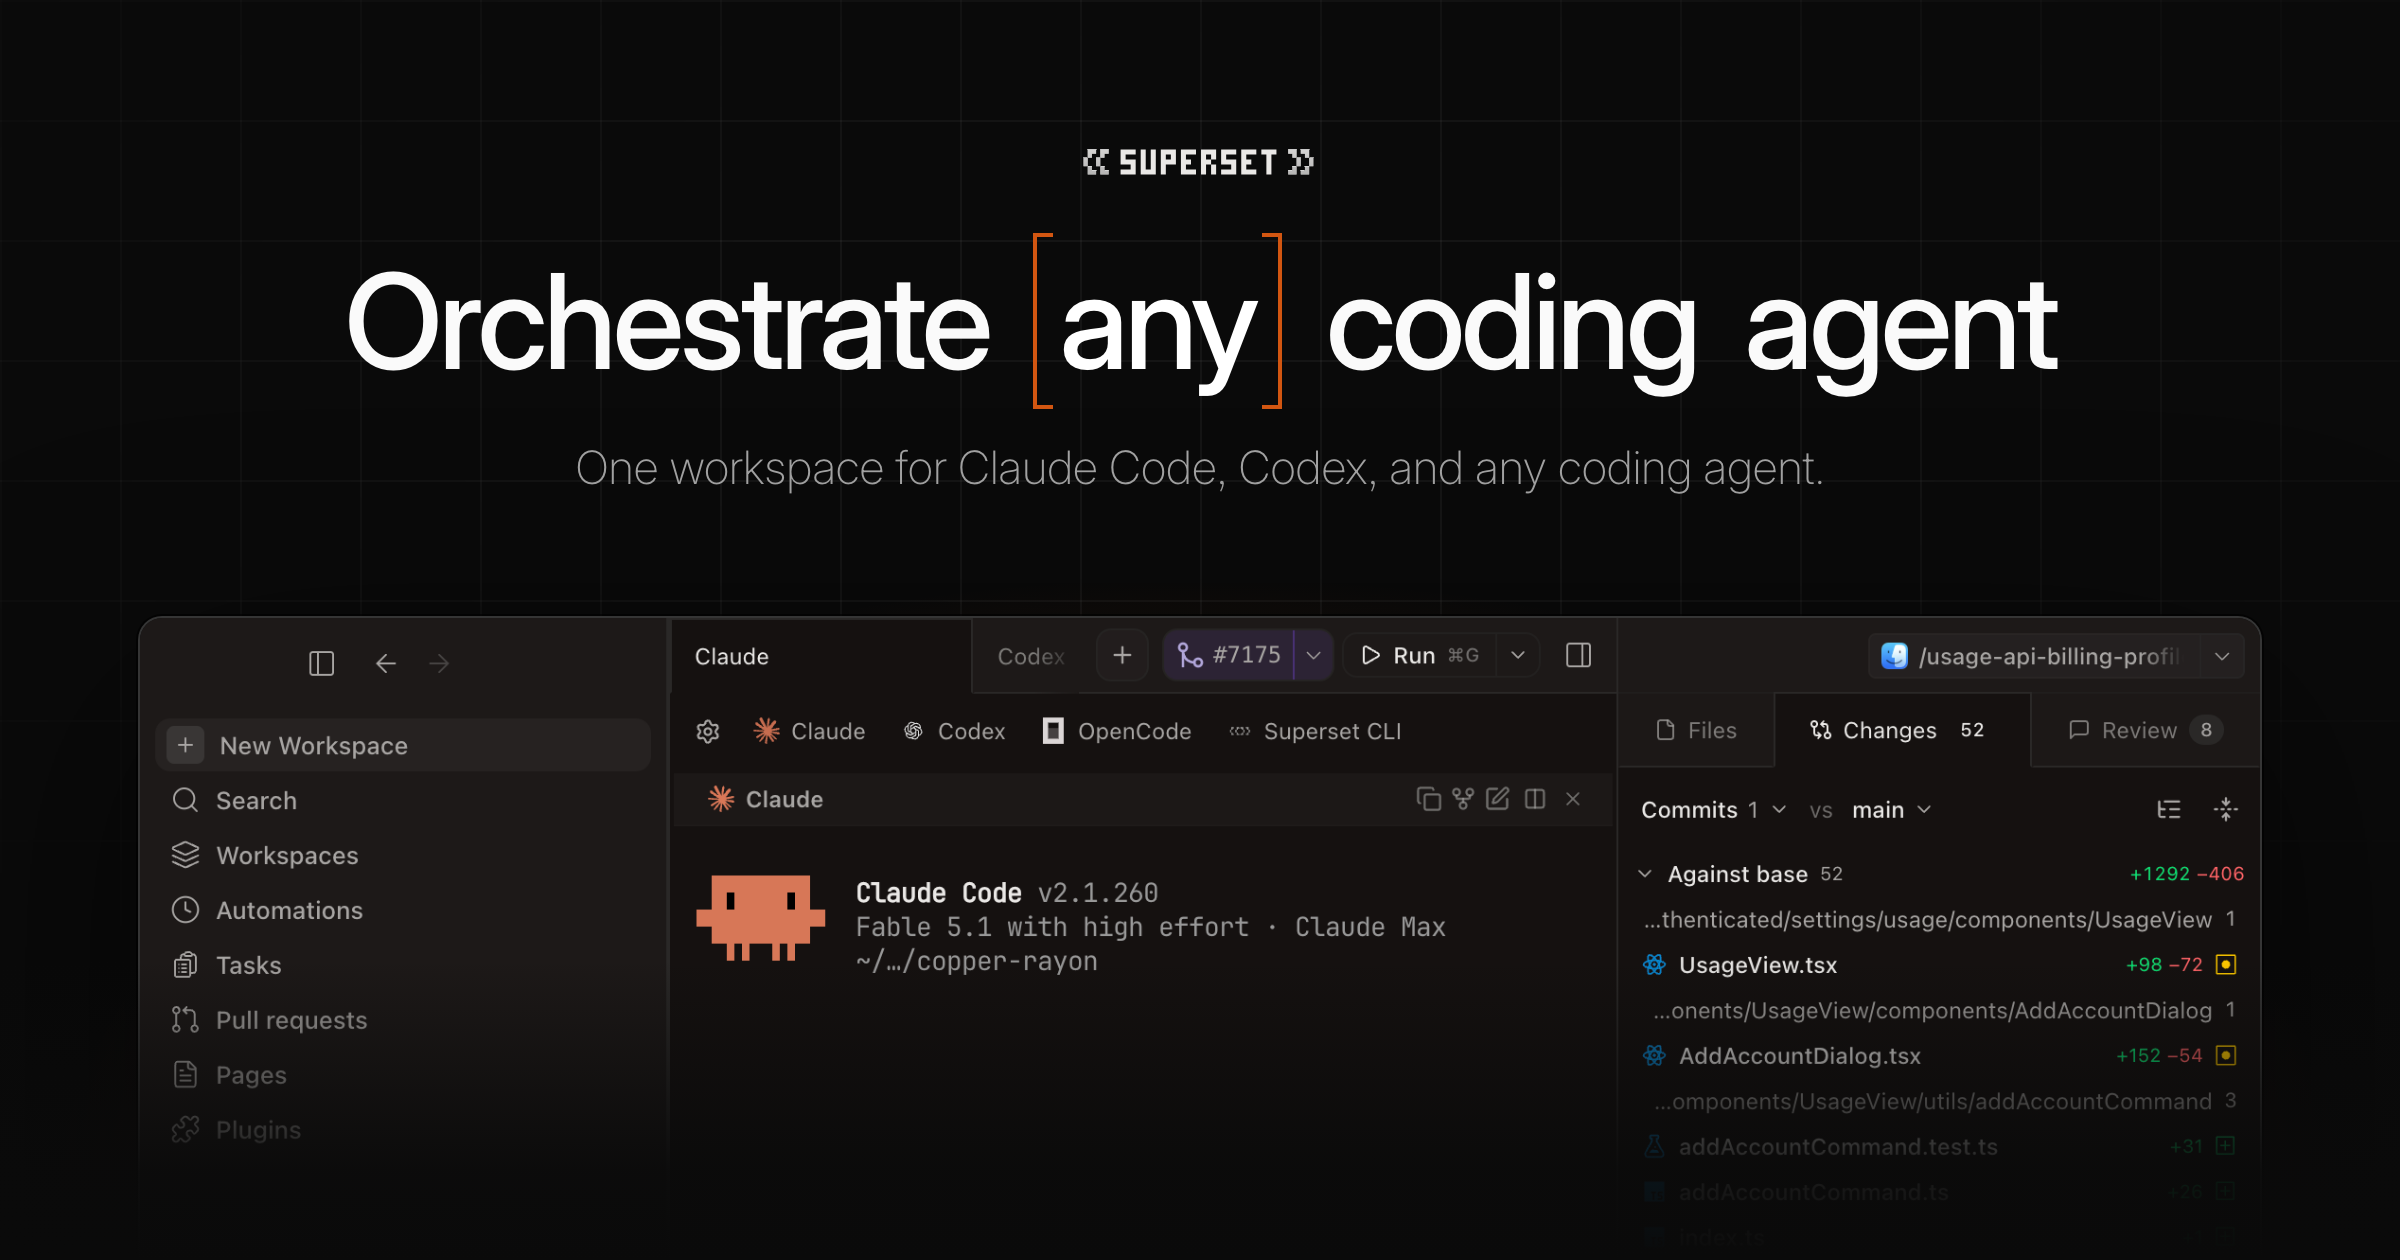
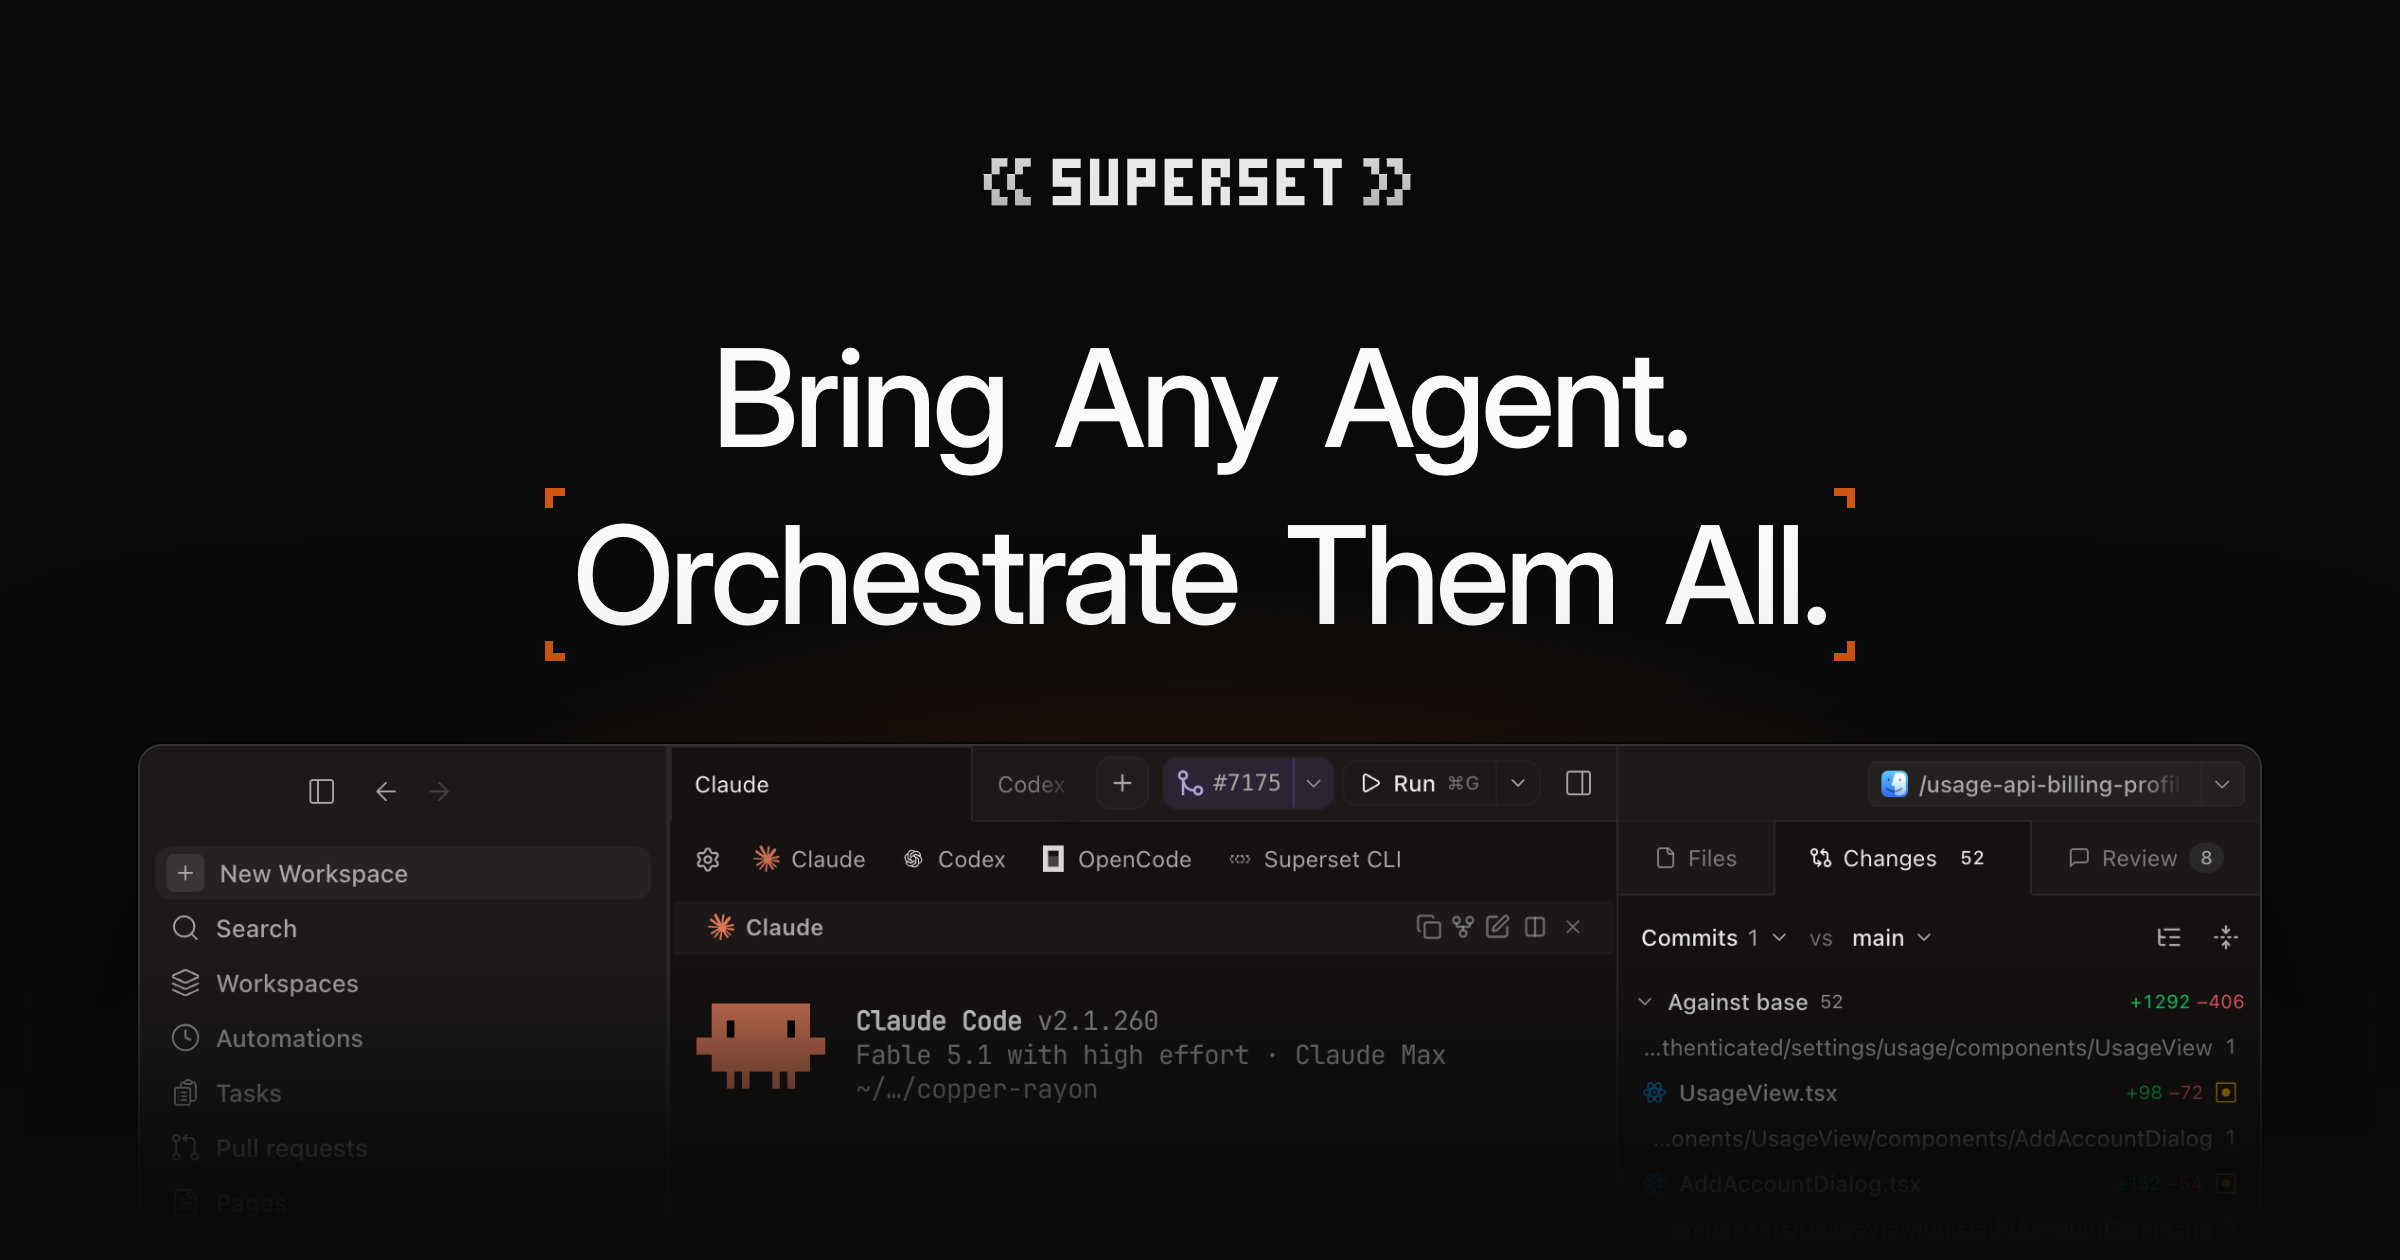
fix(marketing): use the hero tagline on the preview image
Match the landing page headline ("Bring Any Agent. Orchestrate Them
All.") with its corner ticks, enlarge the wordmark, and drop the grid,
sub-headline, and unused web font so the card reads cleaner.

Claude-Session: https://claude.ai/code/session_015NupyEq5ss4ZpbCrvQkgoq

diff --git a/apps/marketing/scripts/og-image/og-image.html b/apps/marketing/scripts/og-image/og-image.html
@@ -1,29 +1,20 @@
 <!doctype html>
 <html><head><meta charset="utf-8">
-<link rel="preconnect" href="https://fonts.googleapis.com">
-<link href="https://fonts.googleapis.com/css2?family=IBM+Plex+Mono:wght@400;500&display=block" rel="stylesheet">
 <style>
   html,body{margin:0;background:#0a0a0a}
   body{width:1200px;height:630px;overflow:hidden;position:relative;font-family:"Inter Variable",Inter,ui-sans-serif,system-ui,sans-serif;font-feature-settings:"cv01","ss03";color:#fff;-webkit-font-smoothing:antialiased}
-  .glow{position:absolute;left:50%;top:100%;width:1600px;height:900px;transform:translate(-50%,-52%);background:radial-gradient(closest-side,rgba(210,86,17,.55),rgba(210,86,17,.16) 45%,rgba(10,10,10,0) 72%);pointer-events:none}
-  .grid{position:absolute;inset:0;background-image:linear-gradient(rgba(255,255,255,.045) 1px,transparent 1px),linear-gradient(90deg,rgba(255,255,255,.045) 1px,transparent 1px);background-size:60px 60px;-webkit-mask-image:radial-gradient(ellipse 70% 60% at 50% 30%,#000 30%,transparent 100%)}
-  .top{position:absolute;left:0;right:0;top:60px;display:flex;flex-direction:column;align-items:center;gap:24px}
-  h1{margin:0;font-size:66px;font-weight:500;letter-spacing:-0.035em;line-height:1.05;word-spacing:.15em;color:#fafafa;text-align:center}
-  h1 .br{padding:0 .18em;position:relative;color:#fff}
-  h1 .br::before,h1 .br::after{content:"";position:absolute;top:-.06em;bottom:-.06em;width:.12em;border:2px solid #d25611}
-  h1 .br::before{left:-.02em;border-right:0}
-  h1 .br::after{right:-.02em;border-left:0}
-  .sub{font-size:23px;font-weight:300;color:#a3a3a3;letter-spacing:-.01em}
-  .win{position:absolute;left:50%;top:308px;transform:translateX(-50%);width:1060px;height:420px;border-radius:12px;background:#0f0f0f;border:1px solid rgba(255,255,255,.16);box-shadow:0 0 0 1px rgba(0,0,0,.6),0 40px 120px rgba(0,0,0,.6);overflow:hidden}
+  .glow{position:absolute;left:50%;top:100%;width:1600px;height:900px;transform:translate(-50%,-52%);background:radial-gradient(closest-side,rgba(210,86,17,.5),rgba(210,86,17,.14) 45%,rgba(10,10,10,0) 72%);pointer-events:none}
+  .top{position:absolute;left:0;right:0;top:52px;display:flex;flex-direction:column;align-items:center;gap:30px}
+  h1{margin:0;font-size:68px;font-weight:500;letter-spacing:-0.035em;line-height:1.15;word-spacing:.15em;color:#fafafa;text-align:center;display:flex;flex-direction:column;align-items:center;gap:6px}
+  h1 .br{display:inline-block;padding:.06em .2em;background-image:linear-gradient(#d25611,#d25611),linear-gradient(#d25611,#d25611),linear-gradient(#d25611,#d25611),linear-gradient(#d25611,#d25611),linear-gradient(#d25611,#d25611),linear-gradient(#d25611,#d25611),linear-gradient(#d25611,#d25611),linear-gradient(#d25611,#d25611);background-repeat:no-repeat;background-size:.15em 4px,4px .15em,.15em 4px,4px .15em,.15em 4px,4px .15em,.15em 4px,4px .15em;background-position:0 0,0 0,100% 0,100% 0,0 100%,0 100%,100% 100%,100% 100%}
+  .win{position:absolute;left:50%;top:372px;transform:translateX(-50%);width:1060px;height:420px;border-radius:12px;background:#0f0f0f;border:1px solid rgba(255,255,255,.16);box-shadow:0 0 0 1px rgba(0,0,0,.6),0 40px 120px rgba(0,0,0,.6);overflow:hidden}
   .win img{display:block;width:100%;height:auto}
   .fade{position:absolute;left:0;right:0;bottom:0;height:150px;background:linear-gradient(180deg,rgba(10,10,10,0),rgba(10,10,10,.92) 70%,#0a0a0a)}
 </style></head><body>
-<div class="grid"></div>
 <div class="glow"></div>
 <div class="top">
-  <img src="../../public/title.svg" style="height:42px">
-  <h1>Orchestrate <span class="br">any</span> coding agent</h1>
-  <div class="sub">One workspace for Claude Code, Codex, and any coding agent.</div>
+  <img src="../../public/title.svg" style="height:78px">
+  <h1><span>Bring Any Agent.</span><span class="br">Orchestrate Them All.</span></h1>
 </div>
 <div class="win"><img src="screenshot.png"></div>
 <div class="fade"></div>
